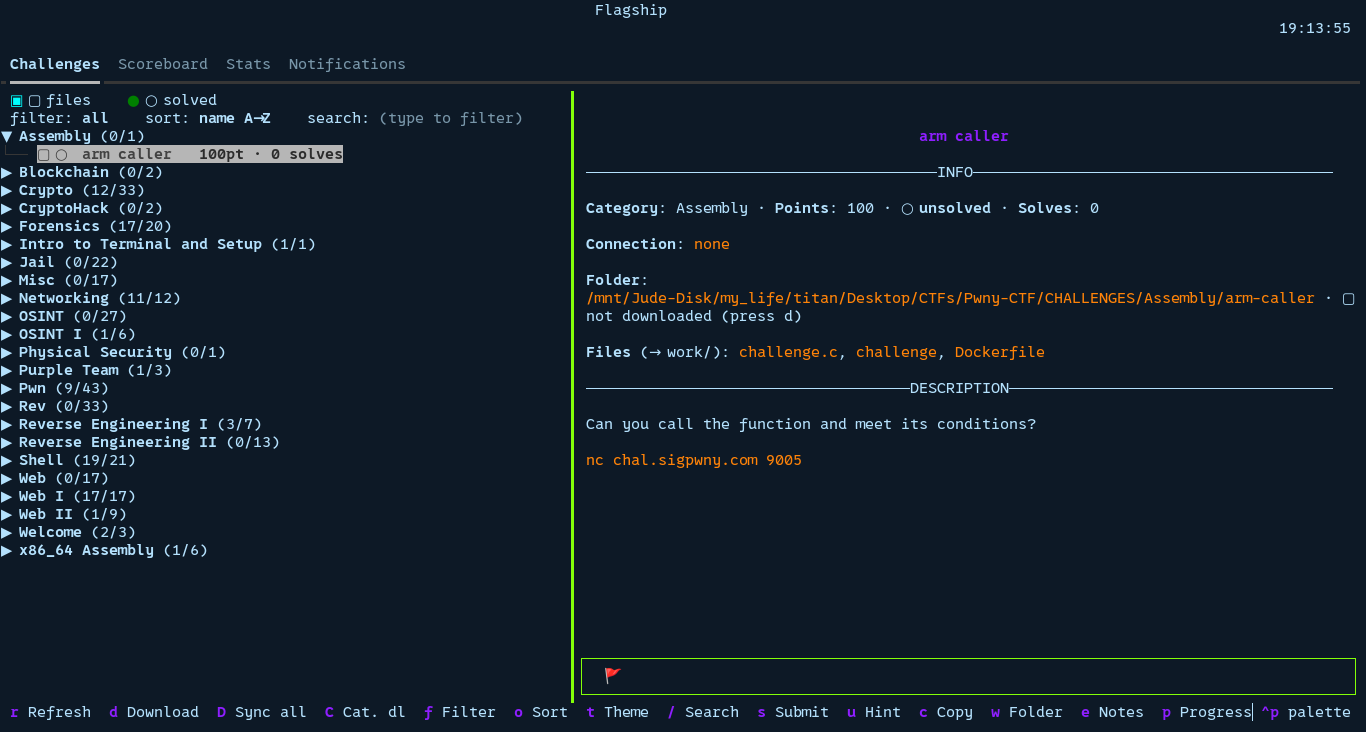
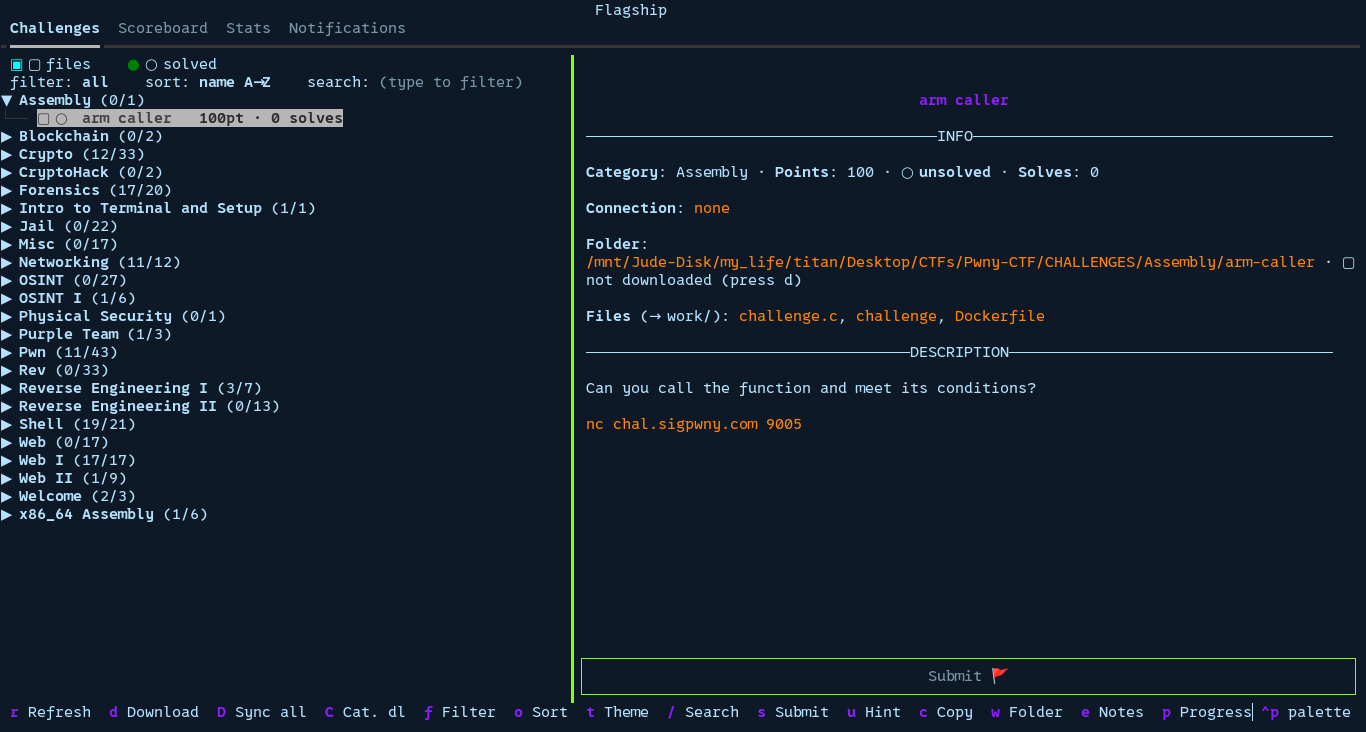
updates

diff --git a/flagship/app.py b/flagship/app.py
@@ -37,19 +37,34 @@ from .config import Config
 from .ctfd import CTFd, CTFdError
 from . import store
 
-BEAM_CHAR = "▏"  # thin vertical bar (U+258F) to mimic an I-beam cursor
+BEAM_CHAR = "│"  # thin vertical bar (U+2502), centered in its cell so both neighbouring
+                 # characters sit flush against it ; "▏" (U+258F) hugs the left edge only,
+                 # leaving a visible gap before the character on the right
 
 
 class BeamInput(Input):
     """Input field whose cursor is a vertical bar ("I-beam") instead of the default
     reversed block.
 
-    Textual's native block is neutralised (its style is rendered empty during our own render),
-    then a single bar is drawn at the cursor position. This avoids any "double cursor" (bar +
-    leftover block) on the first character of a wide placeholder (emoji). On any
-    incompatibility, it silently falls back to the standard cursor."""
+    The bar is INSERTED in its own cell between the character before and the character after
+    the cursor, never drawn on top of (replacing) either one: with a block cursor, the
+    character right after the cursor is hidden every time the cursor blinks on, which is the
+    one thing an insertion-point cursor must never do. That cell is reserved at all times
+    (focused, regardless of blink phase) and just toggles between the bar glyph and a blank, so
+    the rest of the line does not visibly shift back and forth as it blinks. Delete/Backspace
+    behave exactly as before: this only changes how the cursor is drawn, not Input's own
+    editing logic. On any incompatibility, it silently falls back to the standard cursor.
+
+    `center=True` (the flag field): placeholder and typed text are centered in the box instead
+    of hugging the left edge, cursor included. Falls back to the normal left-aligned rendering
+    whenever the content is too long to fit (a flag that overflows the box still needs Textual's
+    own scrolling, which the centered path doesn't attempt to replicate)."""
 
     _suppress_native_cursor = False
+
+    def __init__(self, *args, center: bool = False, **kwargs):
+        super().__init__(*args, **kwargs)
+        self._center = center
 
     def get_component_rich_style(self, *names, **kwargs):
         # only neutralise the native cursor style during our own render
@@ -58,33 +73,78 @@ class BeamInput(Input):
         return super().get_component_rich_style(*names, **kwargs)
 
     def render_line(self, y: int) -> Strip:
-        # first line, field focused, cursor visible (honours blinking)
-        if y != 0 or not self.has_focus or not self._cursor_visible:
+        if y != 0:
             return super().render_line(y)
+        if self._center:
+            try:
+                centered = self._render_centered()
+                if centered is not None:
+                    return centered
+            except Exception:
+                pass  # fall through to the normal (left-aligned) rendering below
+        if not self.has_focus:
+            return super().render_line(0)
         try:
-            # 1) normal render but WITHOUT the native cursor block
-            self._suppress_native_cursor = True
-            strip = super().render_line(y)
-            self._suppress_native_cursor = False
-
-            # bar colour = fill colour of the native block (follows the theme)
-            cur = super().get_component_rich_style("input--cursor")
-            bar_style = self.rich_style + Style(color=cur.bgcolor, bold=True)
-            bar = Strip([Segment(BEAM_CHAR, bar_style)])
-            width = strip.cell_length
-
-            # 2) visual column of the cursor (handles wide characters)
-            col = cell_len(self.value[: self.cursor_position]) - self.scroll_offset.x
-            if col < 0 or col > width:
-                return super().render_line(y)
-
-            # 3) replace the single cursor cell with the bar
-            left = strip.crop(0, col)
-            right = strip.crop(col + 1, width)
-            return Strip.join([left, bar, right])
+            return self._render_insertion_cursor()
         except Exception:
-            self._suppress_native_cursor = False
-            return super().render_line(y)  # fallback: default cursor
+            return super().render_line(0)  # fallback: default cursor
+
+    def _cursor_slot_style(self) -> Style:
+        # bar colour = fill colour of the native block (follows the theme)
+        cur = super().get_component_rich_style("input--cursor")
+        return self.rich_style + Style(color=cur.bgcolor, bold=True)
+
+    def _insert_slot(self, strip: Strip, col: int, width: int) -> Strip:
+        """Insert a one-cell slot (the cursor bar, or a blank when blinked off) right at `col`,
+        shifting everything from `col` onward by one cell instead of overwriting it, then crop
+        back to `width` so the box keeps its size (the cell pushed past the right edge is simply
+        the one that becomes hidden, same as any text editor scrolling/clipping its tail)."""
+        glyph = BEAM_CHAR if self._cursor_visible else " "
+        style = self._cursor_slot_style() if self._cursor_visible else self.rich_style
+        slot = Strip([Segment(glyph, style)])
+        left = strip.crop(0, col)
+        right = strip.crop(col, width)  # nothing dropped: the char that was at `col` moves to col+1
+        return Strip.join([left, slot, right]).crop(0, width)
+
+    def _render_insertion_cursor(self) -> Strip:
+        # 1) normal render but WITHOUT the native cursor block
+        self._suppress_native_cursor = True
+        strip = super().render_line(0)
+        self._suppress_native_cursor = False
+        width = strip.cell_length
+
+        # 2) visual column of the cursor (handles wide characters)
+        col = cell_len(self.value[: self.cursor_position]) - self.scroll_offset.x
+        if col < 0 or col > width:
+            return strip
+        return self._insert_slot(strip, col, width)
+
+    def _render_centered(self) -> Strip | None:
+        """Placeholder or value, centered in the box ; the I-beam cursor (if focused) sits
+        wherever that centered text puts it. Returns None to signal "doesn't fit, use the
+        normal rendering instead" rather than attempting to crop/scroll it."""
+        width = self.scrollable_content_region.width
+        showing_placeholder = not self.value
+        text = self.placeholder if showing_placeholder else self.value
+        content_len = cell_len(text)
+        if content_len > width:
+            return None
+        pad_left = (width - content_len) // 2
+
+        text_style = (self.get_component_rich_style("input--placeholder") if showing_placeholder
+                     else self.rich_style)
+        strip = Strip([Segment(" " * pad_left), Segment(text, text_style)])
+        # one extra column of slack: if the text exactly fills `width` and the cursor sits right
+        # at the end, _insert_slot needs somewhere to put it without just cropping it away
+        strip = strip.extend_cell_length(width + 1, self.rich_style)
+
+        if self.has_focus:
+            col = pad_left if showing_placeholder else pad_left + cell_len(self.value[: self.cursor_position])
+            if 0 <= col <= width:
+                strip = self._insert_slot(strip, col, width + 1)
+        # final width is `width + 1`, matching what Textual's own Input always renders at
+        # (`scrollable_content_region.width` is 1 less than the strip it actually expects)
+        return strip.apply_style(self.rich_style)
 
 class Splitter(Widget):
     """Vertical separator draggable with the mouse between the challenge list and the detail.
@@ -185,7 +245,7 @@ def build_member_md(name: str, challenges: list[dict], solved_ids: set[int],
     solves list attributes a solve to the TEAM, not the member, so a first blood is counted for
     this member when `fb_cache[cid] == team_name` (the team's own first blood) AND the
     challenge is in this member's personal `solved_ids` (which DOES come from a per-member
-    source: `/teams/me/solves`'s `user` field) — i.e. they personally made that winning
+    source: `/teams/me/solves`'s `user` field), meaning they personally made that winning
     submission. `team_name` defaults to `name` for the solo-player case."""
     fb_cache = fb_cache or {}
     fb_name = team_name if team_name is not None else name
@@ -347,8 +407,7 @@ class Flagship(App):
                     with Vertical(id="rightcol"):
                         with VerticalScroll(id="detailwrap"):
                             yield Markdown("*Select a challenge on the left.*", id="detail")
-                        # leading space: the I-beam cursor blinks on it without hiding the emoji
-                        yield BeamInput(placeholder=" 🚩", id="flag")
+                        yield BeamInput(placeholder="Submit 🚩", id="flag", center=True)
             with TabPane("Scoreboard", id="tab-score"):
                 yield DataTable(id="scoreboard")
             with TabPane("Stats", id="tab-stats"):
@@ -459,7 +518,7 @@ class Flagship(App):
             hint = ""
             if "403" in str(e) or "access denied" in str(e):
                 if self.client.auth_ok():
-                    hint = " (token OK: challenges hidden — CTF over or not started yet)"
+                    hint = " (token OK: challenges hidden, CTF over or not started yet)"
                 else:
                     hint = " (token rejected: regenerate it in Settings > Access Tokens)"
             cached = store.load_cache(self.cfg.base_dir)  # offline mode
@@ -490,8 +549,9 @@ class Flagship(App):
                                       cached.get("personal"), cached.get("members"))
 
     def _update_title(self) -> None:
-        """Just the app name, centered by Header — score/rank/solved/downloaded/filter/sort are
-        all shown elsewhere already (Stats tab, legend row), so this line stays uncluttered."""
+        """Just the app name, centered by Header. Score, rank, solved/downloaded counts and the
+        active filter/sort are all shown elsewhere already (Stats tab, legend row), so this line
+        stays uncluttered."""
         self.title = "Flagship"
 
     def _render_stats(self) -> None:
@@ -968,7 +1028,7 @@ class Flagship(App):
 
     def _update_legend(self) -> None:
         """Always-visible reminder of the active filter and sort, on the same row as the
-        (always-on, borderless) search field — so searching never costs extra terminal height."""
+        (always-on, borderless) search field, so searching never costs extra terminal height."""
         self.query_one("#legend_icons", Static).update(
             "[cyan]▣[/cyan] [grey42]▢[/grey42] files    "
             "[green]●[/green] [grey42]○[/grey42] solved")
@@ -1213,14 +1273,14 @@ class Flagship(App):
             self.call_from_thread(self._emit, f"Unlock failed: {e}", "error")
             return
         # the unlock itself succeeded (POST /unlocks: cost already deducted server-side) ; the
-        # detail refetch below is best-effort display only — a failure here must NEVER be
+        # detail refetch below is best-effort display only. A failure here must NEVER be
         # reported as "unlock failed", since the hint genuinely is unlocked at this point
         try:
             detail = self.client.challenge(cid)
         except CTFdError as e:
             self.call_from_thread(
                 self._emit,
-                f"💡 Hint #{hint_id} unlocked, but couldn't refresh its content ({e}) — press `r`.",
+                f"💡 Hint #{hint_id} unlocked, but couldn't refresh its content ({e}). Press `r`.",
                 "warning", 8)
             return
         self._detail_cache[cid] = detail

diff --git a/flagship/store.py b/flagship/store.py
@@ -503,13 +503,13 @@ def fetch_first_bloods(client: CTFd, challenge_ids: list[int], known: dict[int, 
 
     Returns (new_entries, api_errors). Merge `new_entries` into your own cache ; `known` itself
     is not mutated. A challenge's first blood never changes once set, so callers can cache the
-    result forever (no need to re-fetch on a later sync) — which is why a still-unknown first
+    result forever (no need to re-fetch on a later sync). This is why a still-unknown first
     blood (no recorded solve yet, e.g. a locally-flagged solve the server hasn't caught up with)
     is NEVER included here: it must stay retriable on the next call, not frozen as "no one"
     forever.
 
     `api_errors` counts calls that raised `CTFdError` (as opposed to a clean "no solves yet"),
-    e.g. because the CTF has ended — this endpoint is `@during_ctf_time_only` on CTFd, so EVERY
+    e.g. because the CTF has ended. This endpoint is `@during_ctf_time_only` on CTFd, so EVERY
     call fails the same way once it's over. Callers should treat "every attempted id errored" as
     a signal to stop auto-retrying this batch on every poll, not just a handful of "not yet"s.
     """

diff --git a/README.md b/README.md
@@ -1,10 +1,9 @@
 # 🚩 Flagship
 
-*Un nouveau CTF, et c'est reparti : créer les dossiers, télécharger les fichiers, suivre ce qui est
-résolu, retrouver ses notes… Flagship automatise toute cette plomberie ; il ne reste plus qu'à
-résoudre les challenges.*
-*A new CTF, and it all starts over: creating folders, downloading files, tracking solves, keeping
-notes… Flagship automates all this plumbing, leaving just one thing to do: solve the challenges.*
+*Nouveau CTF, même routine : dossiers, téléchargements, suivi des résolus, notes à garder.
+Flagship s'en charge, toi tu résous les challenges.*
+*New CTF, same routine: folders, downloads, tracking what's solved, keeping notes. Flagship
+handles all that, you just solve challenges.*
 
 Une **TUI** pour n'importe quel CTF sous **CTFd** : synchronise les challenges en dossiers,
 et permet de **parcourir, lire et soumettre les flags** depuis le terminal.
@@ -28,9 +27,9 @@ flagship config.sh                   # (ou ./flagship.sh config.sh)
 Par défaut, le lancement **liste** seulement les challenges (aucun téléchargement). / By default,
 launch just **lists** challenges (no download).
 
-Raccourcis / Shortcuts : `↑↓`·Enter · `d` télécharger/download · `D` tout sync/sync all ·
-`/` search · `r` refresh · `f` filter · `o` sort · `s` flag · `u` hint ·
-`c` copy · `w` folder · `e` notes · `p` progress · `q` quit · drag `┃` to resize panes.
+Raccourcis / Shortcuts : `↑↓`·Enter · `d` download · `D` sync all · `/` search (inline, no extra
+height) · `r` refresh · `f` filter · `o` sort · `s` flag · `u` hint · `c` copy · `w` folder ·
+`e` notes · `p` progress · `q` quit · drag `┃` to resize panes.
 Interface language: English. / Interface en anglais.
 Onglets / Tabs : Challenges · Scoreboard · Stats · Notifications.
 
